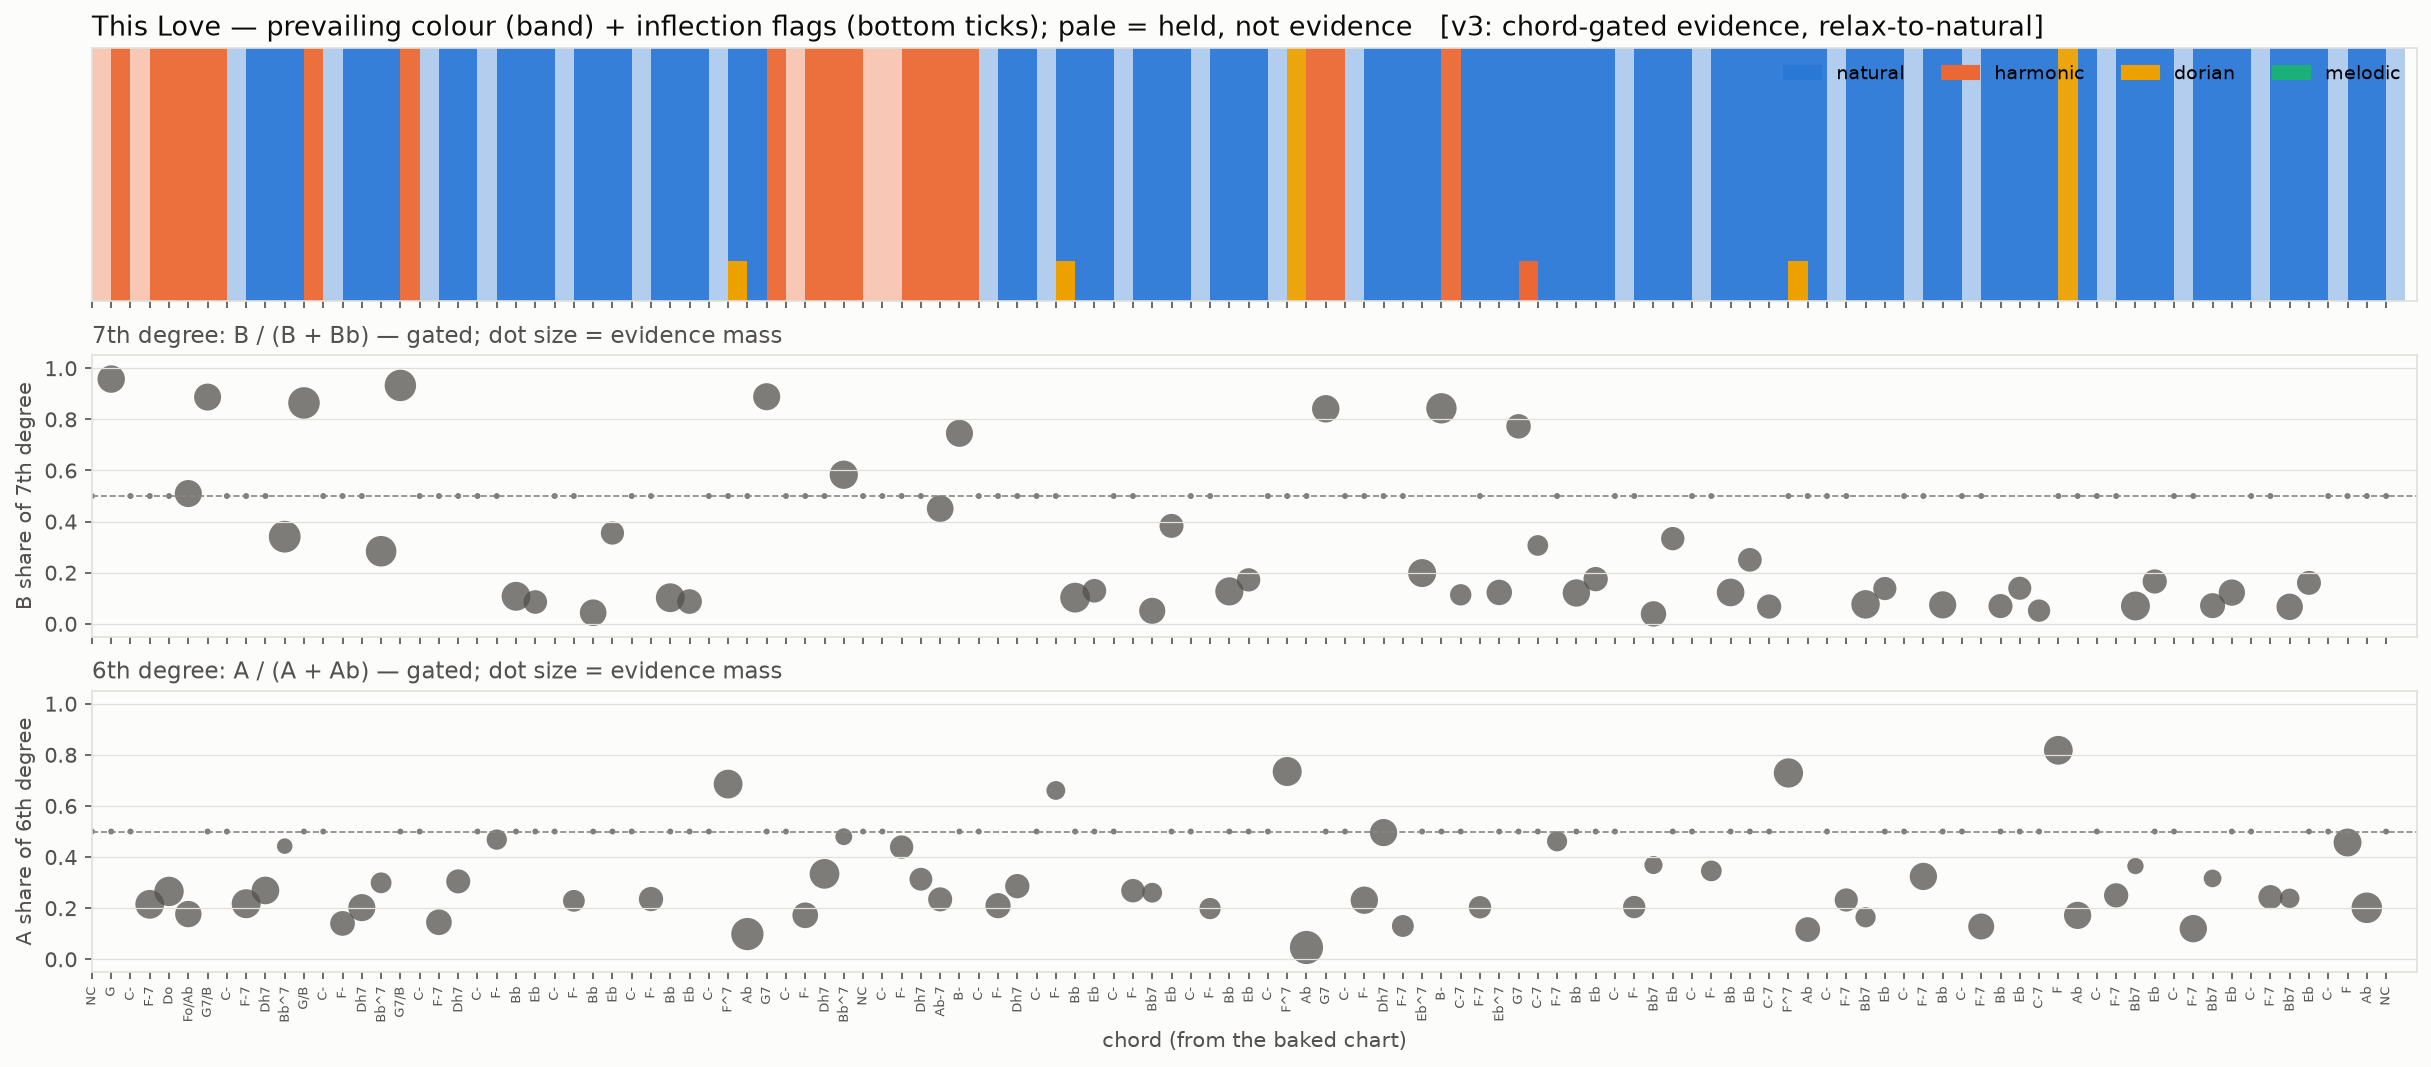
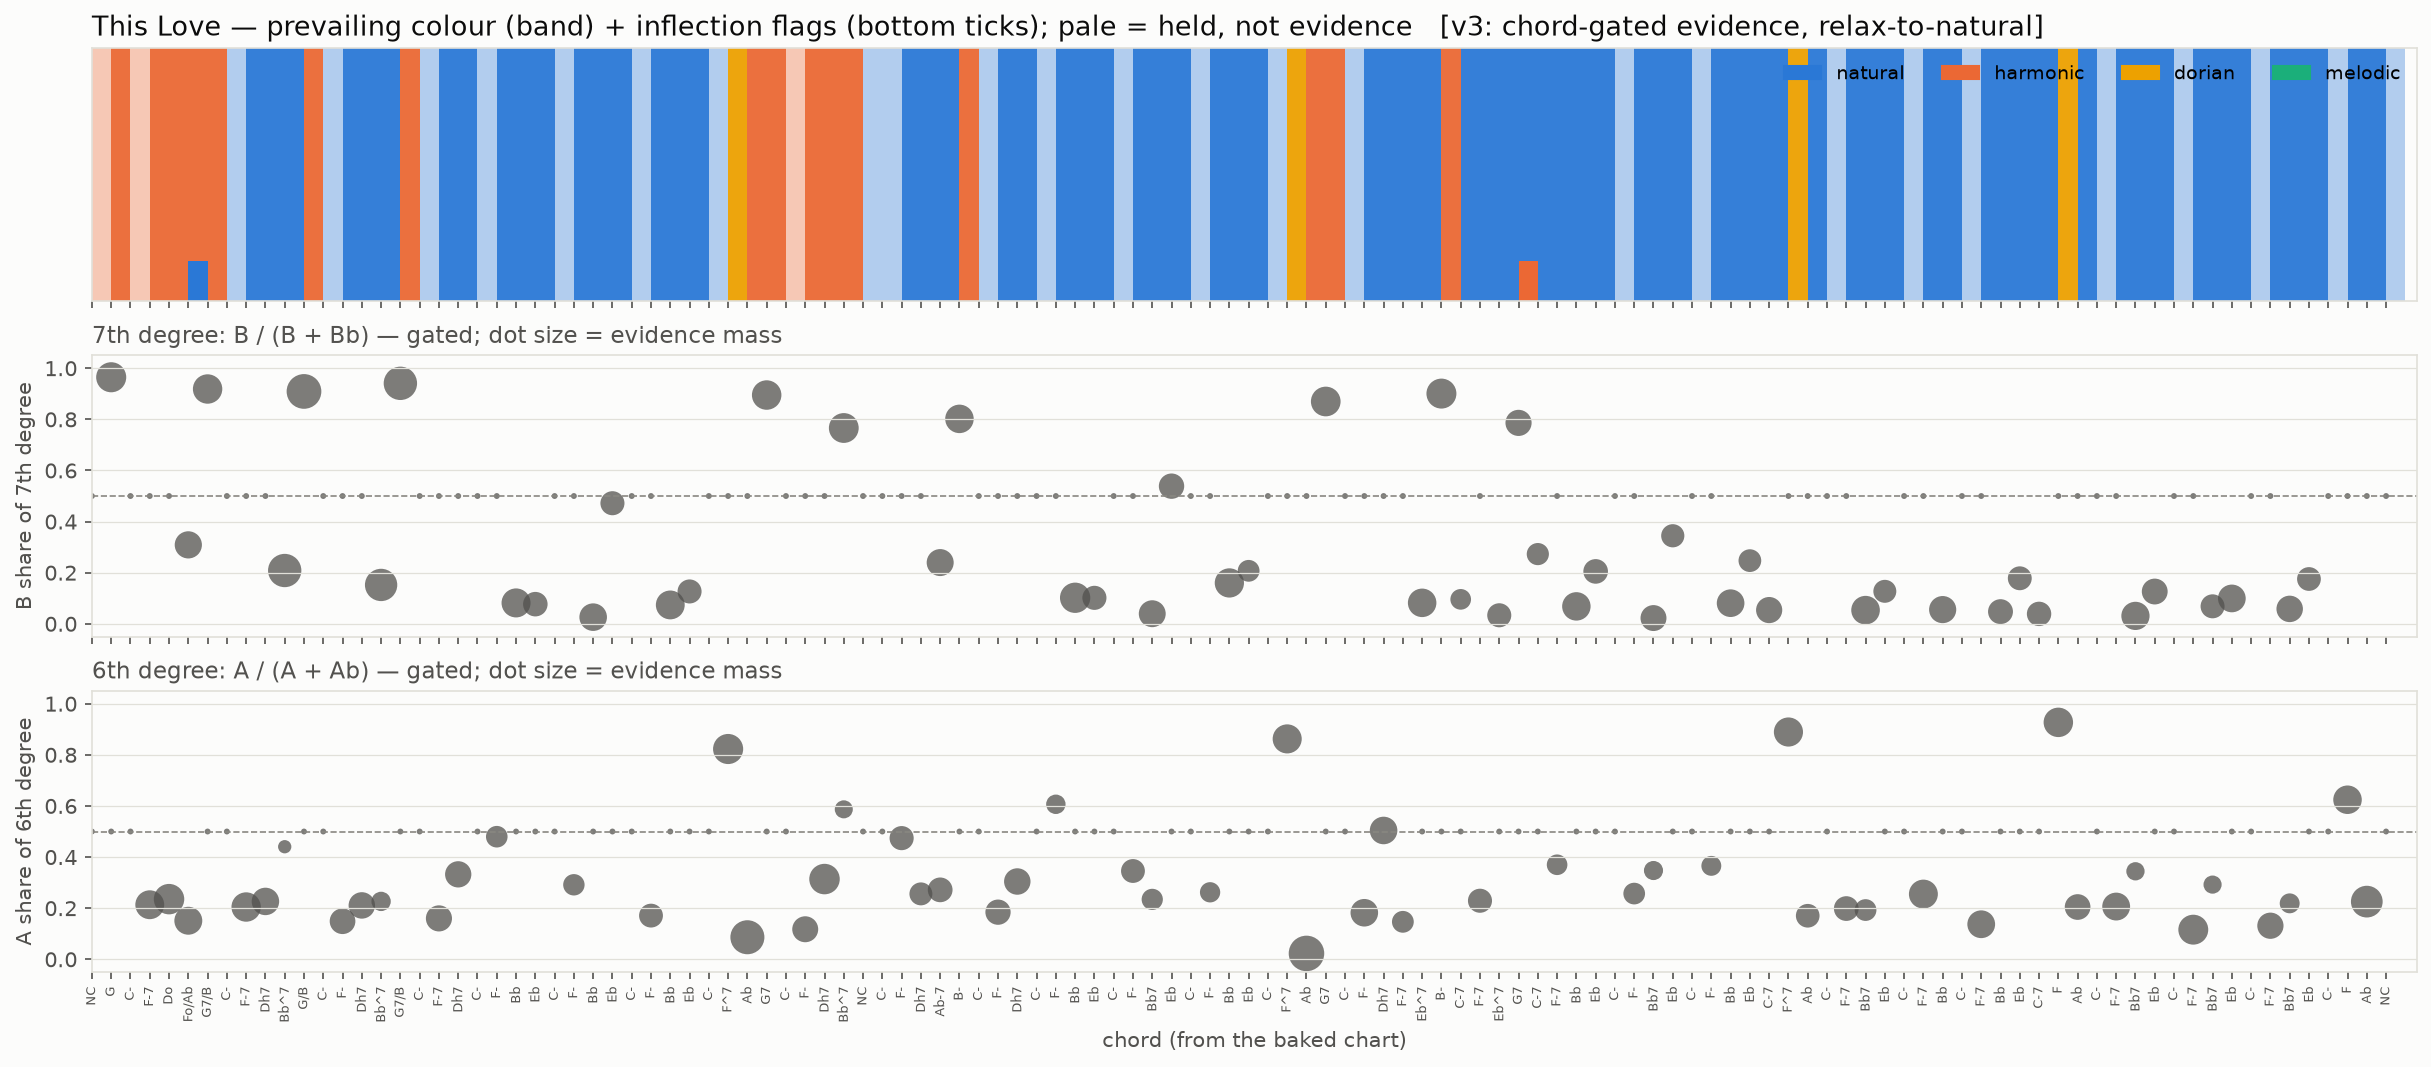
harmonic-key v4.1: Hann-centred chord-span pooling (Louis's transition rule)
Measured first: span edges carry the neighbours' notes (Eb^7's last third
holds the coming B at 0.11 vs 0.00 in its first; Dh7's F 0.07->0.17 toward
the next F-7). Centre-weighting the chroma inside each chord span: all
five F-major chords now decode PREVAILING dorian, the verse Bb^7s become
natural-inflection flags over a harmonic verse, Ab-7->Bb sharpens to 2.2x.
The bridge B- is untouched by design: B/F# hold all three thirds of its
span and G is absent even mid-frame - only the functional rule can
relabel it G/B.

diff --git a/scratchpad/colour_hmm_this_love.py b/scratchpad/colour_hmm_this_love.py
@@ -147,13 +147,24 @@ def chord_gates(ch: dict) -> tuple[bool, bool]:
     return bool(pcs & {8, 9}), bool(pcs & {10, 11})
 
 
+CENTRE_POOL = True  # Louis 2026-07-30: weight the middle of the chord span —
+#                     span edges carry the neighbours' notes (measured: Eb^7's
+#                     last third holds the next chord's B at 0.11 vs 0.00 in
+#                     its first; Dh7's F jumps 0.07->0.17 toward the coming
+#                     F-7). Hann window; uniform pooling if CENTRE_POOL=False.
+
+
 def chord_chroma(arr, times, t0, t1, bass_mode=None) -> np.ndarray:
     """L1-normalised C-first 12-d chroma for one chord span."""
     bass_mode = BASS_MODE if bass_mode is None else bass_mode
     sel = (times >= t0) & (times < t1)
     if not sel.any():
         sel = np.array([np.argmin(np.abs(times - 0.5 * (t0 + t1)))])
-    seg = arr[sel].mean(0)
+    if CENTRE_POOL and np.count_nonzero(sel) >= 3:
+        w = np.hanning(np.count_nonzero(sel))
+        seg = (arr[sel] * w[:, None]).sum(0) / w.sum()
+    else:
+        seg = arr[sel].mean(0)
     bass = np.roll(seg[:12], ROLL)
     treb = np.roll(seg[12:], ROLL)
 
